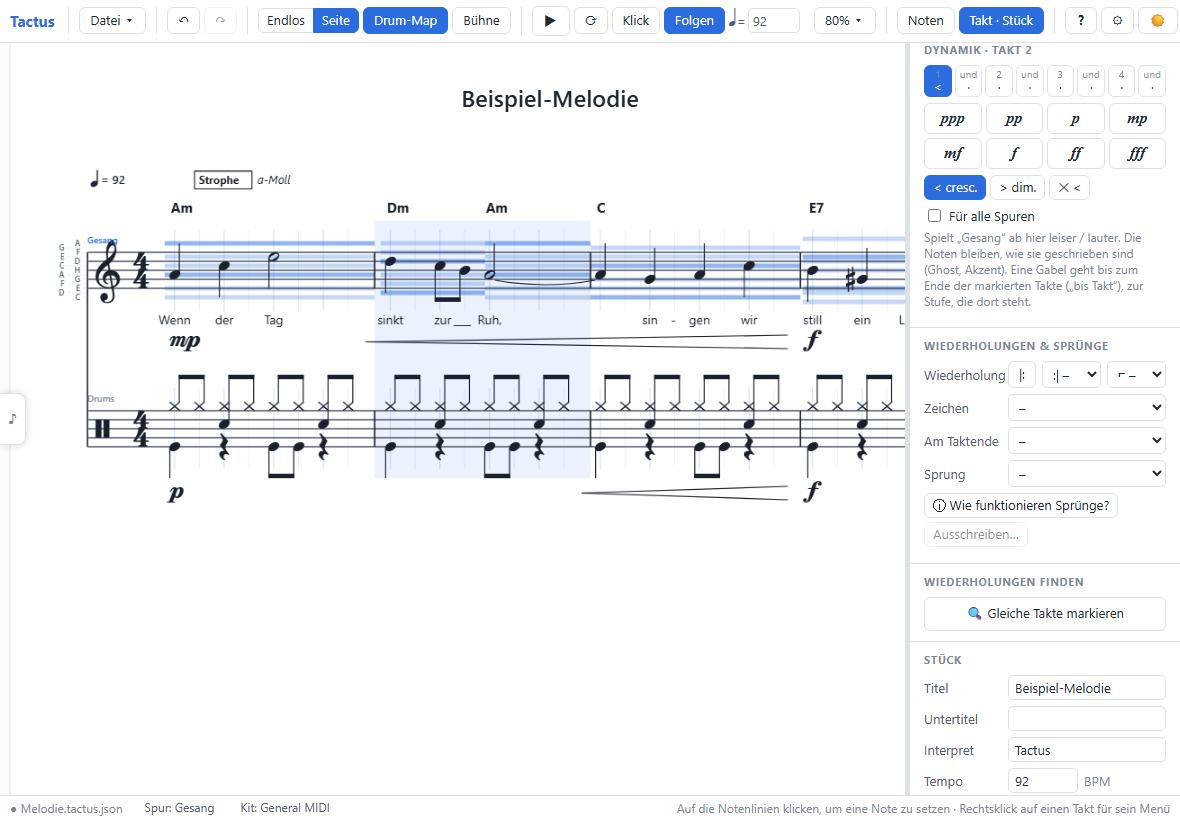
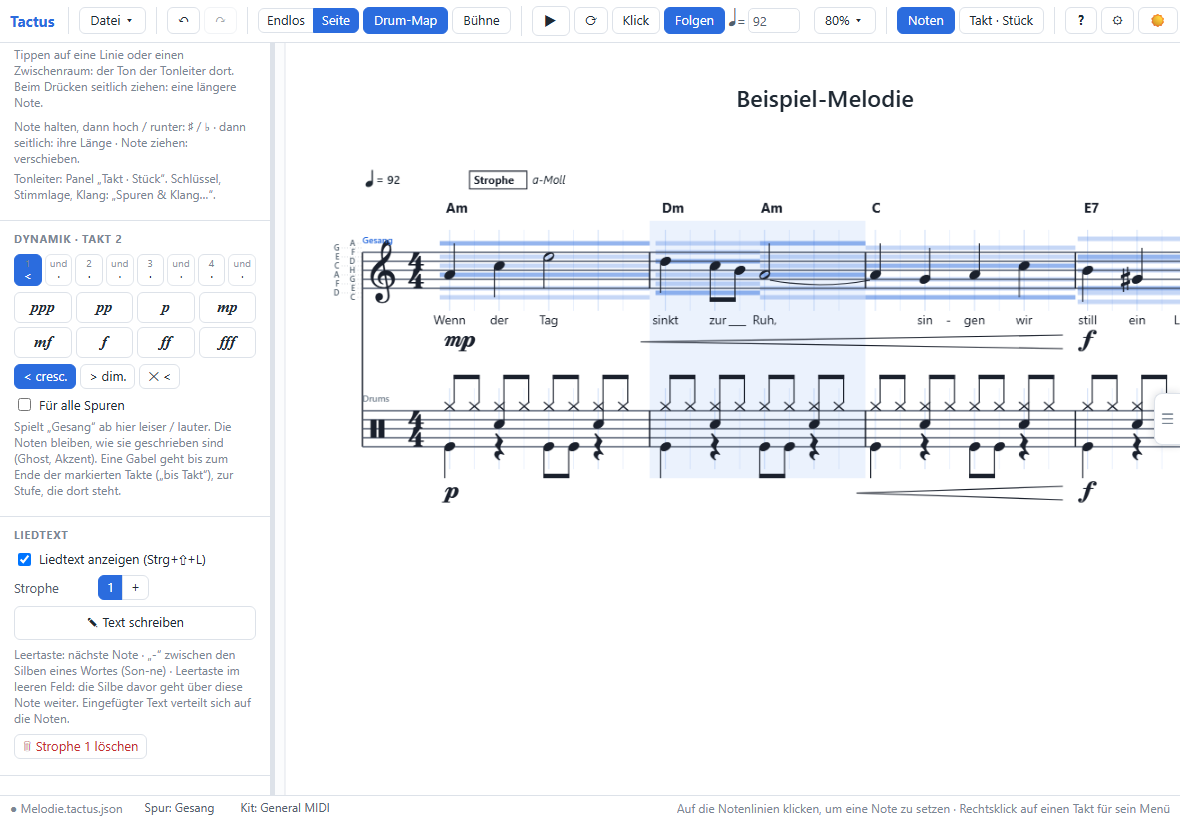
Dynamics in the note panel (left, under the notes, above the lyrics; without a bar: how to start); a drum track's fader through MIDI sets its strengths (EZDrummer and most drum VSTs ignore the channel volume CC 7 - the drums did not get softer), a melody track keeps CC 7; hints pointing to "Tracks &

diff --git a/js/panel.js b/js/panel.js
@@ -97,7 +97,7 @@
       ${btn('toggleLock', undefined, `🔒 ${tr('Lock instrument')}`, lock, tr('A click anywhere in the column writes the selected instrument (L, or hold Shift)'), 'lock-btn')}
       <p class="hint tight">${lock ? tr('On: the height no longer matters.') : tr('Hold Shift: lock while held · L: switch')}</p>
       ${groups}
-      <p class="hint">${TC.drums.ownKit(TC.curTrack()) ? tr('Instruments of this track: panel "Bar · score" → Tracks.') : tr('Other instruments: drum kit in the settings (⚙).')}</p></section>`;
+      <p class="hint">${TC.drums.ownKit(TC.curTrack()) ? tr('Instruments of this track: "Tracks & sound…" (panel "Bar · score").') : tr('Other instruments: drum kit in the settings (⚙).')}</p></section>`;
   }
 
   function noteSection(hit) {
@@ -153,7 +153,7 @@
         <section><h3>${tr('Melody')}</h3>
         <p class="hint">${tr('Tap a line or space: the tone of the scale there. Drag sideways while pressing: a longer note.')}</p>
         <p class="hint">${tr('Hold a note, then up / down: ♯ / ♭ · then sideways: its length · drag a note: move it.')}</p>
-        <p class="hint tight">${tr('Scale, clef and voice: panel "Bar · score" → Tracks.')}</p></section>${lyricsSection(false)}`;
+        <p class="hint tight">${tr('Scale: panel "Bar · score". Clef, voice, sound: "Tracks & sound…".')}</p></section>${dynSection()}${lyricsSection(false)}`;
     }
     const sp = P.noteSpell(hit.note, TC.score.scaleAt(hit.track, hit.bar));
     const alt = P.enharmonics(hit.note.pitch, sp.dia)[0];
@@ -180,7 +180,7 @@
       ${accentRow(hit.note.accent || 0)}
       <div class="btn-row">${btn('deleteSelection', undefined, '🗑 ' + tr('Delete'), false, tr('Delete (Del)'), 'danger')}
         ${btn('selectNone', undefined, tr('Deselect'), false, 'Esc')}</div>
-    </section>${lyricsSection(true)}`;
+    </section>${dynSection()}${lyricsSection(true)}`;
   }
 
   /** Lyrics of the melody track being written: the verse, start typing (at the selected note), delete a verse. */
@@ -371,7 +371,7 @@
    */
   function dynSection() {
     const i = S.selBar, SC = TC.score;
-    if (i === null || !S.doc.bars[i]) return '';
+    if (i === null || !S.doc.bars[i]) return `<section><h3>${tr('Dynamics')}</h3><p class="hint">${tr('Tap a bar (or write a note): p, f, crescendo … from a place in it.')}</p></section>`;
     const t = TC.curTrack(), ts = S.doc.bars[i].ts, slots = SC.chordSlots(S.doc, i, TC.gridTicks(S.input)), slot = slots.includes(S.chordSlot) ? S.chordSlot : 0;
     const list = SC.dynIn(t, i), lv = (x) => list.find((d) => d.t === x && d.v), wg = (x) => list.find((d) => d.t === x && d.w);
     const here = lv(slot), wedge = wg(slot);
@@ -750,14 +750,16 @@
   P.update = function (force) {
     const hit = selectedNote();
     const lang = S.settings.lang;
-    const keyN = JSON.stringify([S.tool, S.input, hit && hit.note, hit && hit.ev.dur, hit && hit.note.pitch !== undefined && JSON.stringify(TC.score.chordTies(S.doc, hit.track, hit.bar, hit.voice, hit.ev) || {}, ['gap', 'all', 'targets']), S.selection.size && TC.actions.selectedValue(), lang, S.settings.kit, S.settings.kitCustom, S.settings.kit === 'profile' && [...TC.drums.kit()].join(), TC.curTrack().id, TC.curTrack().kit, TC.curTrack().kind]);
+    const keyN = JSON.stringify([S.tool, S.input, hit && hit.note, hit && hit.ev.dur, hit && hit.note.pitch !== undefined && JSON.stringify(TC.score.chordTies(S.doc, hit.track, hit.bar, hit.voice, hit.ev) || {}, ['gap', 'all', 'targets']), S.selection.size && TC.actions.selectedValue(), lang, S.settings.kit, S.settings.kitCustom, S.settings.kit === 'profile' && [...TC.drums.kit()].join(), TC.curTrack().id, TC.curTrack().kit, TC.curTrack().kind,
+      // (dynamics: the selected bar, its places and what the track has there)
+      S.selBar, S.selBarEnd, S.chordSlot, S.dynAll, TC.gridTicks(S.input), S.selBar !== null && S.doc.bars[S.selBar] && S.doc.bars[S.selBar].ts, S.selBar !== null && TC.curTrack().bars[S.selBar] && TC.curTrack().bars[S.selBar].dyn]);
     if ((force || keyN !== lastNotes) && !(!force && typing(notesRoot))) {
       lastNotes = keyN;
       const cur = hit ? hit.note.art : S.input.art;
       const scroll = notesRoot.scrollTop;
       // a melody track: no instruments - the tones come from the lines (and its scale)
       notesRoot.innerHTML = head(tr('Notes'), 'left') + toolSection() + valueSection() +
-        (TC.curTrack().kind === 'pitched' ? melodyNoteSection(hit && hit.note.pitch !== undefined ? hit : null) : instrumentSection(cur) + noteSection(hit));
+        (TC.curTrack().kind === 'pitched' ? melodyNoteSection(hit && hit.note.pitch !== undefined ? hit : null) : instrumentSection(cur) + noteSection(hit) + dynSection());
       notesRoot.scrollTop = scroll;
     }
     const cur = TC.curTrack(), curBar = S.selBar !== null && cur.bars[S.selBar];
@@ -770,7 +772,7 @@
       const kitOpen = setRoot.querySelector('details.kit-list[open]') !== null; // (instruments of the track: stays open)
       // what is needed while writing: the track (and a melody's scale), the bar and what belongs to it, the score -
       // tracks and playback in their own window ("Tracks & sound…"), the rest in the settings window (⚙)
-      setRoot.innerHTML = head(tr('Bar · score'), 'right') + trackBarSection() + barSection() + chordSection() + dynSection() + repeatSection() + findSection() + scoreSection() +
+      setRoot.innerHTML = head(tr('Bar · score'), 'right') + trackBarSection() + barSection() + chordSection() + repeatSection() + findSection() + scoreSection() +
         `<section>${btn('openSettings', undefined, '⚙ ' + tr('More settings…'), false, tr('Drum kit, notation, page, view, keyboard shortcuts'), 'wide')}</section>`;
       if (kitOpen && setRoot.querySelector('details.kit-list')) setRoot.querySelector('details.kit-list').open = true;
       setRoot.scrollTop = scroll;

diff --git a/hilfe.html b/hilfe.html
@@ -489,8 +489,8 @@ Klammer. Jede Zeile hat ihren eigenen Rhythmus – oben die Melodie, unten Bass 
   <li><b>Klang</b>: Tactus-Synthesizer, <b>aufgenommene Schlagzeug-Klänge</b> (<span class="ui">Spuren &amp; Klang</span> → Wiedergabe, einmalig ca. 3,5 MB) oder dein Drum-VST über MIDI (<a href="#vst-wiedergabe">Kapitel 4</a>).</li>
 </ul>
 <h3 id="dynamik">Dynamik (ppp … fff) und Lautstärke der Spuren</h3>
-<p><b>Dynamik</b> sagt, wie stark ab einer Stelle gespielt wird: Takt antippen, im Panel <span class="ui">Dynamik</span> die Stelle im Takt
-wählen (wie bei den Akkorden) und eine Stufe <i>ppp pp p mp mf f ff fff</i>. Ohne Angabe spielt alles <i>mf</i> – wie bisher.</p>
+<p><b>Dynamik</b> sagt, wie stark ab einer Stelle gespielt wird: Takt antippen (oder eine Note setzen), im Abschnitt <span class="ui">Dynamik</span> die Stelle im Takt
+wählen (wie bei den Akkorden) und eine Stufe <i>ppp pp p mp mf f ff fff</i> – im Noten-Panel links, unter den Noten (bei Melodien über dem Liedtext). Ohne Angabe spielt alles <i>mf</i> – wie bisher.</p>
 <ul>
   <li><b>Gabeln:</b> <span class="ui">&lt; cresc.</span> (immer lauter) und <span class="ui">&gt; dim.</span> (immer leiser) gehen von der
     Stelle bis zum Ende der markierten Takte (<span class="ui">bis Takt</span> im Takt-Panel) – zur Stufe, die dort steht, sonst zwei Stufen
@@ -503,9 +503,9 @@ wählen (wie bei den Akkorden) und eine Stufe <i>ppp pp p mp mf f ff fff</i>. Oh
     Dieselbe Stufe noch einmal antippen nimmt sie wieder weg.</li>
 </ul>
 <p><b>Lautstärke einer Spur:</b> in <span class="ui">Spuren &amp; Klang</span> der Regler <span class="ui">Lautstärke</span> bei der Spur –
-wie ein Fader am Mischpult. Mit Tactus-Klängen wird die Spur leiser / lauter, über MIDI schickt Tactus die Kanal-Lautstärke (CC 7); die
-Anschlagstärke bleibt, so wechselt dein Drum-VST nicht die Samples.</p>
-<figure><img src="help/img/dynamik.png" alt="Gesang mp mit Crescendo zu f, Schlagzeug p mit Crescendo zu f; rechts das Panel Dynamik"><figcaption>Gesang <i>mp</i>, über zwei Takte lauter bis <i>f</i>; das Schlagzeug von <i>p</i> nach <i>f</i>. Rechts das Panel mit den Stufen und den Gabeln.</figcaption></figure>
+wie ein Fader am Mischpult. Mit Tactus-Klängen wird die Spur leiser / lauter. Über MIDI: eine <b>Melodie-Spur</b> bekommt die
+Kanal-Lautstärke (CC 7, ihr Klang bleibt), eine <b>Schlagzeug-Spur</b> schwächere Anschläge – Drum-VSTs wie EZDrummer überhören CC 7.</p>
+<figure><img src="help/img/dynamik.png" alt="Gesang mp mit Crescendo zu f, Schlagzeug p mit Crescendo zu f; links das Noten-Panel mit der Dynamik"><figcaption>Gesang <i>mp</i>, über zwei Takte lauter bis <i>f</i>; das Schlagzeug von <i>p</i> nach <i>f</i>. Links das Noten-Panel mit den Stufen und den Gabeln.</figcaption></figure>
 
 <h3 id="verzoegerung">Verzögerung ausgleichen</h3>
 <p>Bluetooth-Kopfhörer und manche Soundkarten spielen den Ton hörbar später, als der Cursor läuft. Feld

diff --git a/js/i18n.js b/js/i18n.js
@@ -245,7 +245,7 @@
       'Tippen auf eine Linie oder einen Zwischenraum: der Ton der Tonleiter dort. Beim Drücken seitlich ziehen: eine längere Note.',
     'Hold a note, then up / down: ♯ / ♭ · then sideways: its length · drag a note: move it.':
       'Note halten, dann hoch / runter: ♯ / ♭ · dann seitlich: ihre Länge · Note ziehen: verschieben.',
-    'Scale, clef and voice: panel "Bar · score" → Tracks.': 'Tonleiter, Schlüssel und Stimmlage: Panel „Takt · Stück“ → Spuren.',
+    'Scale: panel "Bar · score". Clef, voice, sound: "Tracks & sound…".': 'Tonleiter: Panel „Takt · Stück“. Schlüssel, Stimmlage, Klang: „Spuren & Klang…“.',
     Raise: 'Erhöhen',
     Lower: 'Erniedrigen',
     'A semitone up (hold the note, then up)': 'Einen Halbton höher (Note halten, dann hoch)',
@@ -355,6 +355,7 @@
     'Like the panel ({name})': 'Wie im Panel ({name})',
     'Sound output': 'Spielt über',
     'Dynamics': 'Dynamik',
+    'Tap a bar (or write a note): p, f, crescendo … from a place in it.': 'Einen Takt antippen (oder eine Note setzen): p, f, Crescendo … ab einer Stelle darin.',
     'Dynamic removed': 'Dynamik entfernt',
     'Hairpin removed': 'Gabel entfernt',
     '{v} from here on - the notes stay as written': '{v} ab hier – die Noten bleiben, wie sie geschrieben sind',
@@ -395,7 +396,7 @@
     'Space between the staves of several tracks (screen and PDF). Below 60 %, notes of full drum kits may touch.': 'Abstand zwischen den Notenzeilen mehrerer Spuren (Bildschirm und PDF). Unter 60 % können sich Noten voller Drum-Kits berühren.',
     'Line spacing': 'Abstand der Zeilen',
     'Space between the lines of the page view, where a line breaks (PDF too).': 'Abstand zwischen den Zeilen der Seitenansicht, dort wo eine Zeile umbricht (auch im PDF).',
-    'Instruments of this track: panel "Bar · score" → Tracks.': 'Instrumente dieser Spur: Panel „Takt · Stück“ → Spuren.',
+    'Instruments of this track: "Tracks & sound…" (panel "Bar · score").': 'Instrumente dieser Spur: „Spuren & Klang…“ (Panel „Takt · Stück“).',
     'Name of the new track (e.g. Snare, Cymbals):': 'Name der neuen Spur (z. B. Snare, Becken):',
     'Name of the track:': 'Name der Spur:',
     'Track "{name}" added - you are writing into it now': 'Spur „{name}“ hinzugefügt – du schreibst jetzt in sie',

diff --git a/tools/uitest/uitest.js b/tools/uitest/uitest.js
@@ -801,8 +801,13 @@ setTimeout(() => {
             sent.length = 0;
             TC.audio.preview(TC.newDrumNote(38, { accent: 1 }));
             const noteMsgs = sent.filter((m) => (m[0] & 0xf0) !== 0xb0); // (the fader: CC 7 once before)
-            ok('MIDI output: a written note goes to the port (General MIDI: channel 10, 38, accent 127; CC 7 = 100 before it) ' + JSON.stringify(sent),
-              noteMsgs.length === 2 && noteMsgs[0].join() === [0x99, 38, 127].join() && noteMsgs[1][0] === 0x89 && sent.some((m) => m.join() === [0xb9, 7, 100].join()));
+            ok('MIDI output: a written note goes to the port (General MIDI: channel 10, 38, accent 127) ' + JSON.stringify(sent),
+              noteMsgs.length === 2 && noteMsgs[0].join() === [0x99, 38, 127].join() && noteMsgs[1][0] === 0x89);
+            dr.volume = 64;
+            sent.length = 0;
+            TC.audio.preview(TC.newDrumNote(38, {}));
+            ok('MIDI output: the fader of a drum track (64) - softer strength, no CC 7 (drum VSTs ignore it) ' + JSON.stringify(sent), sent.length === 2 && sent[0][2] === Math.round(0.72 * 0.64 * 127));
+            dr.volume = 100;
             TC.actions.setMidiLead(200);
             ok('MIDI output: lead 200 ms set in the panel', TC.midiOut.lead() === 0.2 && document.querySelector('input[data-midilead]').value === '200');
             // two outputs: a melody track on its own (Test Port 2), the drums on theirs, a track without one: Tactus' sounds
@@ -870,7 +875,7 @@ setTimeout(() => {
           TC.selectBar(0);
           S.chordSlot = 0;
           TC.panel.update(true);
-          const pBtn = document.querySelector('#panel-settings [data-action="setDyn"][data-value="p"]');
+          const pBtn = document.querySelector('#panel-notes [data-action="setDyn"][data-value="p"]'); // (the note panel, under the notes)
           if (pBtn) pBtn.click();
           ok('dynamics: p from the panel - in the track, drawn under the staff', !!pBtn && JSON.stringify(dt.bars[0].dyn) === '[{"t":0,"v":"p"}]' && !!document.querySelector('.score .mus.dyn'));
           TC.actions.setWedge('cresc');

diff --git a/js/midi.js b/js/midi.js
@@ -103,13 +103,10 @@
     const held = new Map(); // melody: the last note of each track, channel and pitch (a tied note lengthens it)
     tracks.forEach((track, ti) => {
       if (track.kind === 'pitched' && !track.lh) addTo(noteEv[ti])(0, 0, [0xc0 | melodyCh(track), track.program || 0]);
-      // the track's volume (fader, 100 = as before): channel volume CC 7 at the start - the strengths stay
+      // a melody track's volume (fader, 100 = as before): channel volume CC 7 at the start - its strengths stay
+      // (a drum track's fader: its strengths, below - drum VSTs mostly ignore CC 7)
       const vol = Number.isInteger(track.volume) ? track.volume : 100;
-      if (vol !== 100 && !track.lh) {
-        const k = track.kind === 'drums' ? keyFor(TC.drums.byId(38), targetOf(track), { replaced: new Map(), missing: new Set() }) : null;
-        const ch = track.kind === 'pitched' ? melodyCh(track) : Number.isInteger(track.midiCh) ? track.midiCh : k ? k.ch : 9;
-        addTo(noteEv[ti])(0, 0, [0xb0 | ch, 7, TC.clamp(vol, 0, 127)]);
-      }
+      if (vol !== 100 && track.kind === 'pitched' && !track.lh) addTo(noteEv[ti])(0, 0, [0xb0 | melodyCh(track), 7, TC.clamp(vol, 0, 127)]);
     });
     // dynamics (ppp … fff, hairpins) of each track: the strengths of its notes (as heard)
     const dynOf = tracks.map((t) => TC.score.dynFactor(doc, t));
@@ -184,7 +181,8 @@
                 put(t, 2, [0x90 | k.ch, k.note, v]);
                 put(t + NOTE_LEN, 1, [0x80 | k.ch, k.note, 0]);
               };
-              const f = df(bi, e.tick), at = t0 + sw(e.tick), vel = T.velocity(n) * f; // swing: an offbeat comes later
+              // (the dynamics, and the drum track's fader)
+              const f = df(bi, e.tick) * (Number.isInteger(track.volume) ? track.volume / 100 : 1), at = t0 + sw(e.tick), vel = T.velocity(n) * f; // swing: an offbeat comes later
               if (n.orn === 'flam') hit(at - msTicks(30), 0.35 * f);
               if (n.orn === 'drag') {
                 hit(at - msTicks(60), 0.33 * f);

diff --git a/tools/tests/test_dynamics.js b/tools/tests/test_dynamics.js
@@ -48,11 +48,15 @@ module.exports = function (T) {
   dr.volume = 80;
   const m = TC.midi.read(TC.midi.build(doc, null, {}).bytes);
   const v = (k) => m.notes.filter((n) => n.t >= k * 3840 && n.t < (k + 1) * 3840).map((n) => n.vel);
-  T.eq('MIDI: mf 91, p softer, f louder', [v(0)[0], v(1)[0] === Math.round(0.72 * F[2] * 127), v(4)[0] === Math.round(0.72 * F[5] * 127)], [91, true, true]);
-  const raw = TC.midi.build(doc, null, {}).bytes;
-  const cc7 = (() => { for (let i = 0; i < raw.length - 2; i++) if ((raw[i] & 0xf0) === 0xb0 && raw[i + 1] === 7) return raw[i + 2]; return null; })();
-  T.eq('MIDI: the fader (80) as channel volume CC 7', cc7, 80);
+  T.eq('MIDI: mf, p softer, f louder (times the fader 0.8)', [v(1)[0] === Math.round(0.72 * F[2] * 0.8 * 127), v(4)[0] === Math.round(0.72 * F[5] * 0.8 * 127)], [true, true]);
+  const cc7 = (bytes) => { for (let i = 0; i < bytes.length - 2; i++) if ((bytes[i] & 0xf0) === 0xb0 && bytes[i + 1] === 7) return bytes[i + 2]; return null; };
+  T.eq('MIDI: the fader of a drum track (80): its strengths, no CC 7 (drum VSTs ignore it)', [v(0)[0], cc7(TC.midi.build(doc, null, {}).bytes)], [Math.round(0.72 * 0.8 * 127), null]);
   dr.volume = 100;
+  const md = TC.emptyScore(1), mt = SC.addTrack(md, 'Synth', null, 'pitched');
+  SC.place(md, mt, 0, 0, 0, 960, TC.newPitchNote(60, null, {}));
+  mt.volume = 70;
+  const mm = TC.midi.build(md, null, {}).bytes;
+  T.eq('MIDI: the fader of a melody track (70): channel volume CC 7, its strength stays', [cc7(mm), TC.midi.read(mm).notes.find((n) => n.note === 60).vel], [70, 91]);
 
   // ---- saved, loaded, copied; a bar with other dynamics is no %-bar
   const back = TC.normalizeDoc(JSON.parse(JSON.stringify(doc)));

diff --git a/js/midiout.js b/js/midiout.js
@@ -99,7 +99,10 @@
   /** A track's output is chosen but not there (not connected, or MIDI not allowed yet). */
   MO.missing = () => !S.settings.midiOff && S.doc.tracks.some((t) => t.midiOut && !byName(t.midiOut));
 
-  /** A track's fader (track.volume, 100 = as before): the channel volume CC 7, sent once per output and channel. */
+  /**
+   * A melody track's fader (track.volume, 100 = as before): the channel volume CC 7, sent once per output and channel
+   * (a synth keeps its sound). Drum tracks: the strength instead (MO.hit) - drum VSTs mostly ignore CC 7.
+   */
   const volSent = new Map();
   function volume(o, ch, track, at) {
     const vol = track && Number.isInteger(track.volume) ? TC.clamp(track.volume, 0, 127) : 100, k = o.name + ':' + ch;
@@ -135,8 +138,8 @@
     // makes up for the delay of the drum VST
     const lat = ctx ? TC.audio.outputDelay() : 0;
     const at = performance.now() + Math.max(0, (ctx ? when - ctx.currentTime : 0) + lat - MO.lead()) * 1000;
-    const v = Math.max(1, Math.min(127, Math.round(vel * 127)));
-    volume(o, k.ch, track, at);
+    // (a drum track's fader: the strength - drum VSTs mostly ignore the channel volume CC 7, e.g. EZDrummer)
+    const v = Math.max(1, Math.min(127, Math.round(vel * TC.audio.trackGain(track) * 127)));
     if (send(o, [0x90 | k.ch, k.note, v], at)) {
       send(o, [0x80 | k.ch, k.note, 0], at + NOTE_MS);
       remember(o, k.ch);

diff --git a/tools/help/shots.js b/tools/help/shots.js
@@ -138,10 +138,10 @@ setTimeout(() => {
         TC.commit();
         S.trackId = mel.id;
         TC.selectBar(1);
-        A.togglePanelRight();
+        A.togglePanel();
         TC.refresh();
         view(0.9, 10, -40);
-        setTimeout(() => { const h = [...document.querySelectorAll('#panel-settings h3')].find((x) => /Dynamik/.test(x.textContent)); if (h) h.scrollIntoView(); }, 200);
+        setTimeout(() => { const h = [...document.querySelectorAll('#panel-notes h3')].find((x) => /Dynamik/.test(x.textContent)); if (h) h.scrollIntoView(); }, 200);
       }, 400);
     },
     // MIDI import: track, where it comes from, grid, tempo, target

diff --git a/sw.js b/sw.js
@@ -6,7 +6,7 @@
  * Network first: online you always get the current files, the cache is only the offline copy.
  * New file in index.html? Add it to FILES, so it is there offline from the start.
  */
-const CACHE = 'tactus-v84';
+const CACHE = 'tactus-v85';
 const SAMPLES = 'tactus-samples-v1'; // samples/*.flac (new version only when the recordings change)
 const FILES = [
   './',

diff --git a/plans/plan.md b/plans/plan.md
@@ -602,7 +602,8 @@ Exportieren. **Kein Griffbrett, keine Griffbilder, keine Tabulatur** (ausdrückl
   Takte, „Für alle Spuren“ (`S.dynAll`), Klavier: beide Hände. Notenbild: Bravura-Glyphen unter der Zeile (Melodie mit Text: unter dem
   Text), Gabeln über Zeilenumbrüche. MusicXML `<dynamics>` (+ `<sound dynamics>`), `<wedge>`.
 - Spur-Lautstärke (`track.volume`, war schon im Modell, ungenutzt): Regler in „Spuren & Klang“; Tactus-Klänge: Verstärkung, MIDI:
-  CC 7 (live einmal je Ausgang + Kanal, Export am Anfang, wenn ≠ 100) – Anschlagstärke unverändert.
+  Melodie über MIDI: CC 7 (live einmal je Ausgang + Kanal, Export am Anfang, wenn ≠ 100), Anschlag bleibt; Schlagzeug über MIDI: die
+  Anschlagstärke (EZDrummer 3 überhört CC 7 – beim Testen bemerkt). Panel: Dynamik im Noten-Panel links (unter den Noten, über dem Liedtext).
 - Tests: `test_dynamics.js` (21), Klick-Test (7), Bild `help/img/dynamik.png`, Handbuch Kap. 10 „Dynamik“.
 - Offen: Dynamik im Taktmenü; Gabel per Ziehen im Notenbild; Ausweichen, wenn Dynamik und Zählhilfe sich bei sehr tiefen Noten
   berühren.
